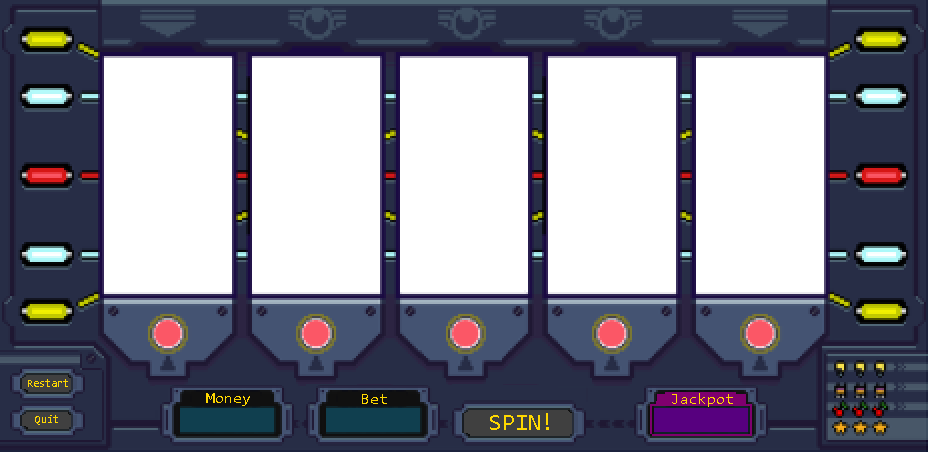
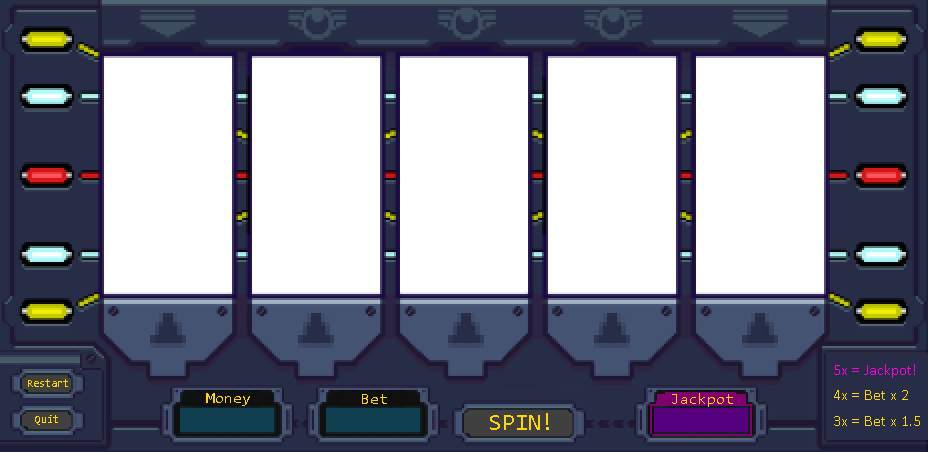
As1 added win text

diff --git a/build/as1.js b/build/as1.js
@@ -8,12 +8,22 @@ import { LabelNumber } from "./objects/LabelNumber.js";
  * Description: A slot machine game
  *
  * Revision History:
+ * (See GitHub for detailed commit history)
+ *
+ * v0.5:
+ * Added sounds
+ *
+ * v0.4:
+ * Created win conditions
+ *
+ * v0.3:
+ * Created buttons
  *
  * v0.2:
- * Created function to make multiple reels
+ * Made reels spin
  *
  * v0.1:
- * Created Reels
+ * Created Reels and art
  *
  *
  * @export
@@ -21,6 +31,8 @@ import { LabelNumber } from "./objects/LabelNumber.js";
  * @extends {Game}
  */
 export class As1 extends Game {
+    //#endregion
+    //#region initialization
     constructor() {
         super();
         this._reels = this._createReels(5);
@@ -65,6 +77,45 @@ export class As1 extends Game {
         createjs.Sound.registerSound("../Assets/As1/sounds/win.ogg", "win");
         createjs.Sound.registerSound("../Assets/As1/sounds/lose.ogg", "lose");
     }
+    _createReels(numReels) {
+        let xOffset = 104;
+        let spacing = 128 + 20;
+        let reels = [];
+        for (let i = 0; i <= numReels - 1; i++) {
+            let reel = new Reel();
+            reel.x = xOffset + (spacing * i);
+            reel.spinCompleteCallback = () => {
+                // Track when reels stop spinning, then check for win
+                if (this._spinningReelCount >= 1) {
+                    this._spinningReelCount--;
+                    if (this._spinningReelCount <= 0) {
+                        this._checkWinConditions();
+                    }
+                }
+            };
+            this._stage.addChild(reel);
+            reels.push(reel);
+        }
+        return reels;
+    }
+    /**
+     * Reset game with initial values
+     *
+     * @private
+     * @memberof As1
+     */
+    _restart(msg = "Are you sure you want to restart?") {
+        if (confirm(msg)) {
+            this._moneyLabel.value = 100;
+            this._betInput.value = "10";
+            this._spinningReelCount = 0;
+            this._usedBetAmt = 0;
+            this._reels.forEach(reel => {
+                reel.reset();
+            });
+        }
+    }
+    //#endregion
     /**
      * Handle spin button click.
      *
@@ -145,13 +196,8 @@ export class As1 extends Game {
                     winnings = this._usedBetAmt * 2;
                     return;
                 case 3:
-                    winnings = this._usedBetAmt * 1;
+                    winnings = this._usedBetAmt * 1.5;
                     return;
-                case 2:
-                    winnings = this._usedBetAmt * 0.5;
-                default:
-                    this._jackpotLabel.value += this._usedBetAmt;
-                    break;
             }
         });
         // Play sounds based on winnings
@@ -161,49 +207,15 @@ export class As1 extends Game {
         else {
             createjs.Sound.play("lose");
         }
+        if (winnings == 0) {
+            // also add to jackpot
+            this._jackpotLabel.value += this._usedBetAmt / 2;
+        }
         // Add winnings to money
         this._moneyLabel.value += winnings;
         // If money is at 0
         if (this._moneyLabel.value <= 0) {
             this._restart("You've lost all your money. Restart?");
-        }
-    }
-    _createReels(numReels) {
-        let xOffset = 104;
-        let spacing = 128 + 20;
-        let reels = [];
-        for (let i = 0; i <= numReels - 1; i++) {
-            let reel = new Reel();
-            reel.x = xOffset + (spacing * i);
-            reel.spinCompleteCallback = () => {
-                // Track when reels stop spinning, then check for win
-                if (this._spinningReelCount >= 1) {
-                    this._spinningReelCount--;
-                    if (this._spinningReelCount <= 0) {
-                        this._checkWinConditions();
-                    }
-                }
-            };
-            this._stage.addChild(reel);
-            reels.push(reel);
-        }
-        return reels;
-    }
-    /**
-     * Reset game with initial values
-     *
-     * @private
-     * @memberof As1
-     */
-    _restart(msg = "Are you sure you want to restart?") {
-        if (confirm(msg)) {
-            this._moneyLabel.value = 100;
-            this._betInput.value = "10";
-            this._spinningReelCount = 0;
-            this._usedBetAmt = 0;
-            this._reels.forEach(reel => {
-                reel.reset();
-            });
         }
     }
     Update() {

diff --git a/Scripts/As1.ts b/Scripts/As1.ts
@@ -9,12 +9,22 @@ import { LabelNumber } from "./objects/LabelNumber.js";
  * Description: A slot machine game
  * 
  * Revision History:
+ * (See GitHub for detailed commit history)
+ * 
+ * v0.5:
+ * Added sounds
+ * 
+ * v0.4:
+ * Created win conditions
+ * 
+ * v0.3:
+ * Created buttons
  * 
  * v0.2:
- * Created function to make multiple reels
+ * Made reels spin
  * 
  * v0.1:
- * Created Reels
+ * Created Reels and art
  * 
  * 
  * @export
@@ -22,6 +32,8 @@ import { LabelNumber } from "./objects/LabelNumber.js";
  * @extends {Game}
  */
 export class As1 extends Game {
+	//#region private vars
+
 	private _reels: Reel[];
 	private _moneyLabel: LabelNumber;
 	private _jackpotLabel: LabelNumber;
@@ -35,6 +47,10 @@ export class As1 extends Game {
 	private _spinningReelCount: number;
 
 	private _usedBetAmt: number;
+
+	//#endregion
+
+	//#region initialization
 
 	constructor() {
 		super();
@@ -98,6 +114,57 @@ export class As1 extends Game {
 		createjs.Sound.registerSound("../Assets/As1/sounds/win.ogg", "win");
 		createjs.Sound.registerSound("../Assets/As1/sounds/lose.ogg", "lose");
 	}
+
+	private _createReels(numReels: number): Reel[] {
+		let xOffset = 104;
+		let spacing = 128 + 20;
+
+		let reels = [];
+
+		for (let i = 0; i <= numReels - 1; i++) {
+			let reel = new Reel();
+
+			reel.x = xOffset + (spacing * i);
+
+			reel.spinCompleteCallback = () => {
+				// Track when reels stop spinning, then check for win
+				if (this._spinningReelCount >= 1) {
+					this._spinningReelCount--;
+					if (this._spinningReelCount <= 0) {
+						this._checkWinConditions();
+					}
+				}
+			};
+
+			this._stage.addChild(reel);
+
+			reels.push(reel);
+		}
+
+		return reels;
+	}
+
+	/**
+	 * Reset game with initial values
+	 *
+	 * @private
+	 * @memberof As1
+	 */
+	private _restart(msg: string = "Are you sure you want to restart?") {
+		if (confirm(msg)) {
+			this._moneyLabel.value = 100;
+			this._betInput.value = "10";
+
+			this._spinningReelCount = 0;
+			this._usedBetAmt = 0;
+
+			this._reels.forEach(reel => {
+				reel.reset();
+			});
+		}
+	}
+
+	//#endregion
 
 	/**
 	 * Handle spin button click.
@@ -194,13 +261,8 @@ export class As1 extends Game {
 					winnings = this._usedBetAmt * 2;
 					return;
 				case 3:
-					winnings = this._usedBetAmt * 1;
+					winnings = this._usedBetAmt * 1.5;
 					return;
-				case 2:
-					winnings = this._usedBetAmt * 0.5;
-				default:
-					this._jackpotLabel.value += this._usedBetAmt;
-					break;
 			}
 		});
 
@@ -211,61 +273,17 @@ export class As1 extends Game {
 			createjs.Sound.play("lose");
 		}
 
+		if (winnings == 0) {
+			// also add to jackpot
+			this._jackpotLabel.value += this._usedBetAmt / 2;
+		}
+
 		// Add winnings to money
 		this._moneyLabel.value += winnings;
 
 		// If money is at 0
 		if (this._moneyLabel.value <= 0) {
 			this._restart("You've lost all your money. Restart?");
-		}
-	}
-
-	private _createReels(numReels: number): Reel[] {
-		let xOffset = 104;
-		let spacing = 128 + 20;
-
-		let reels = [];
-
-		for (let i = 0; i <= numReels - 1; i++) {
-			let reel = new Reel();
-
-			reel.x = xOffset + (spacing * i);
-
-			reel.spinCompleteCallback = () => {
-				// Track when reels stop spinning, then check for win
-				if (this._spinningReelCount >= 1) {
-					this._spinningReelCount--;
-					if (this._spinningReelCount <= 0) {
-						this._checkWinConditions();
-					}
-				}
-			};
-
-			this._stage.addChild(reel);
-
-			reels.push(reel);
-		}
-
-		return reels;
-	}
-
-	/**
-	 * Reset game with initial values
-	 *
-	 * @private
-	 * @memberof As1
-	 */
-	private _restart(msg: string = "Are you sure you want to restart?") {
-		if (confirm(msg)) {
-			this._moneyLabel.value = 100;
-			this._betInput.value = "10";
-
-			this._spinningReelCount = 0;
-			this._usedBetAmt = 0;
-
-			this._reels.forEach(reel => {
-				reel.reset();
-			});
 		}
 	}
 
@@ -286,11 +304,10 @@ new As1();
  *
  * Slot Images:
  * https://starbounder.org/Pets
- * 
+ *
  * Sounds:
  * https://freesound.org/people/pierrecartoons1979/sounds/118237/
  * https://freesound.org/people/Mativve/sounds/391539/
  * https://freesound.org/people/cabled_mess/sounds/350988/
  */
 
- 
